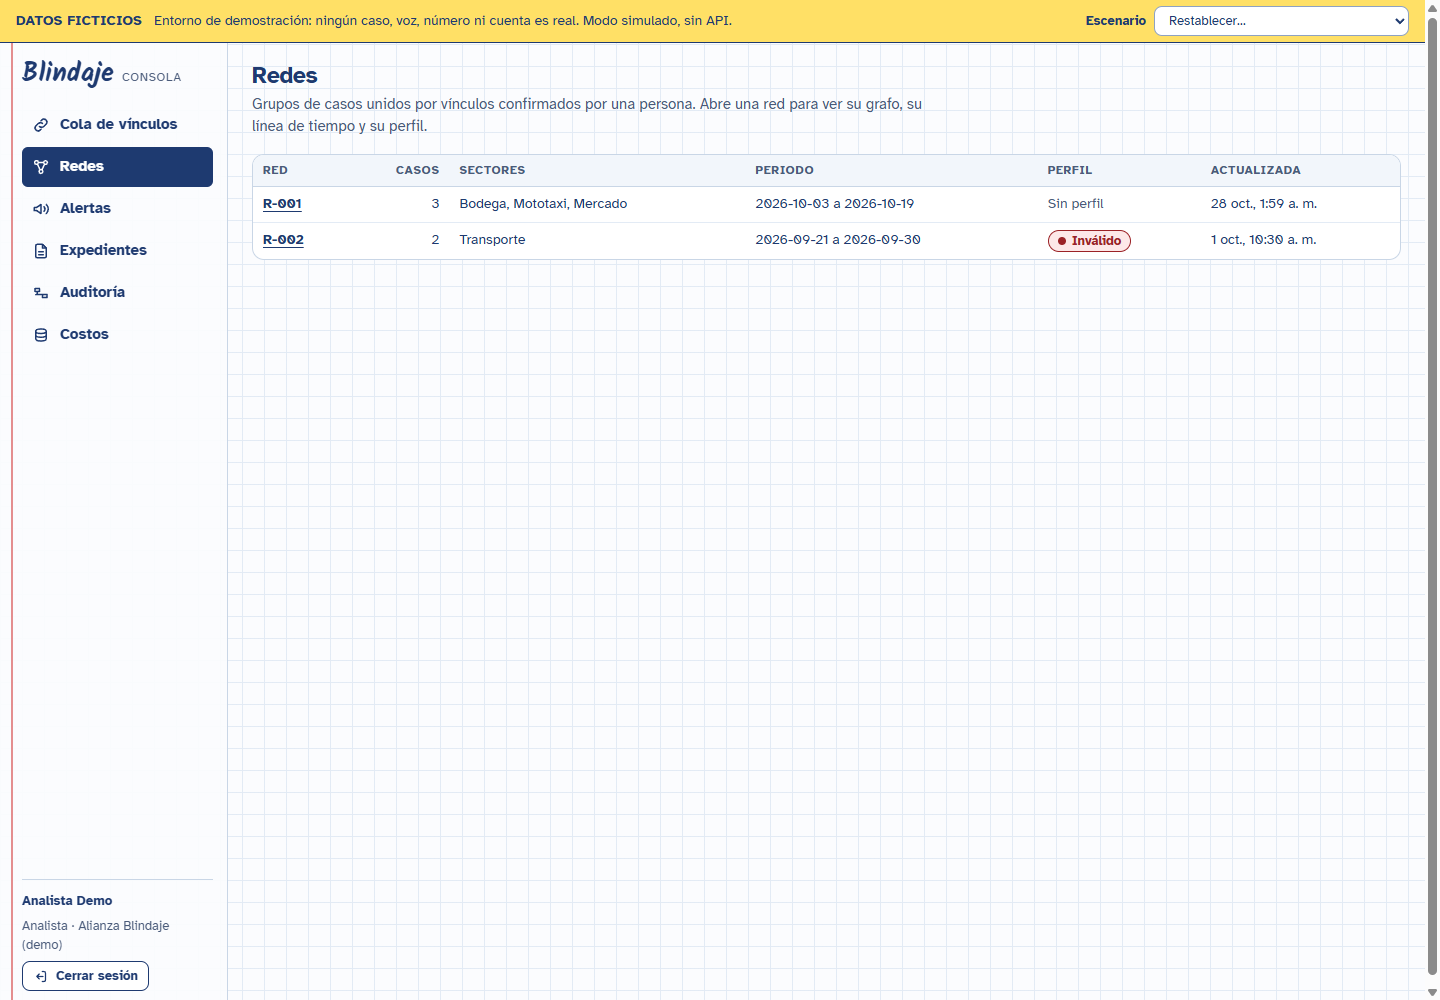
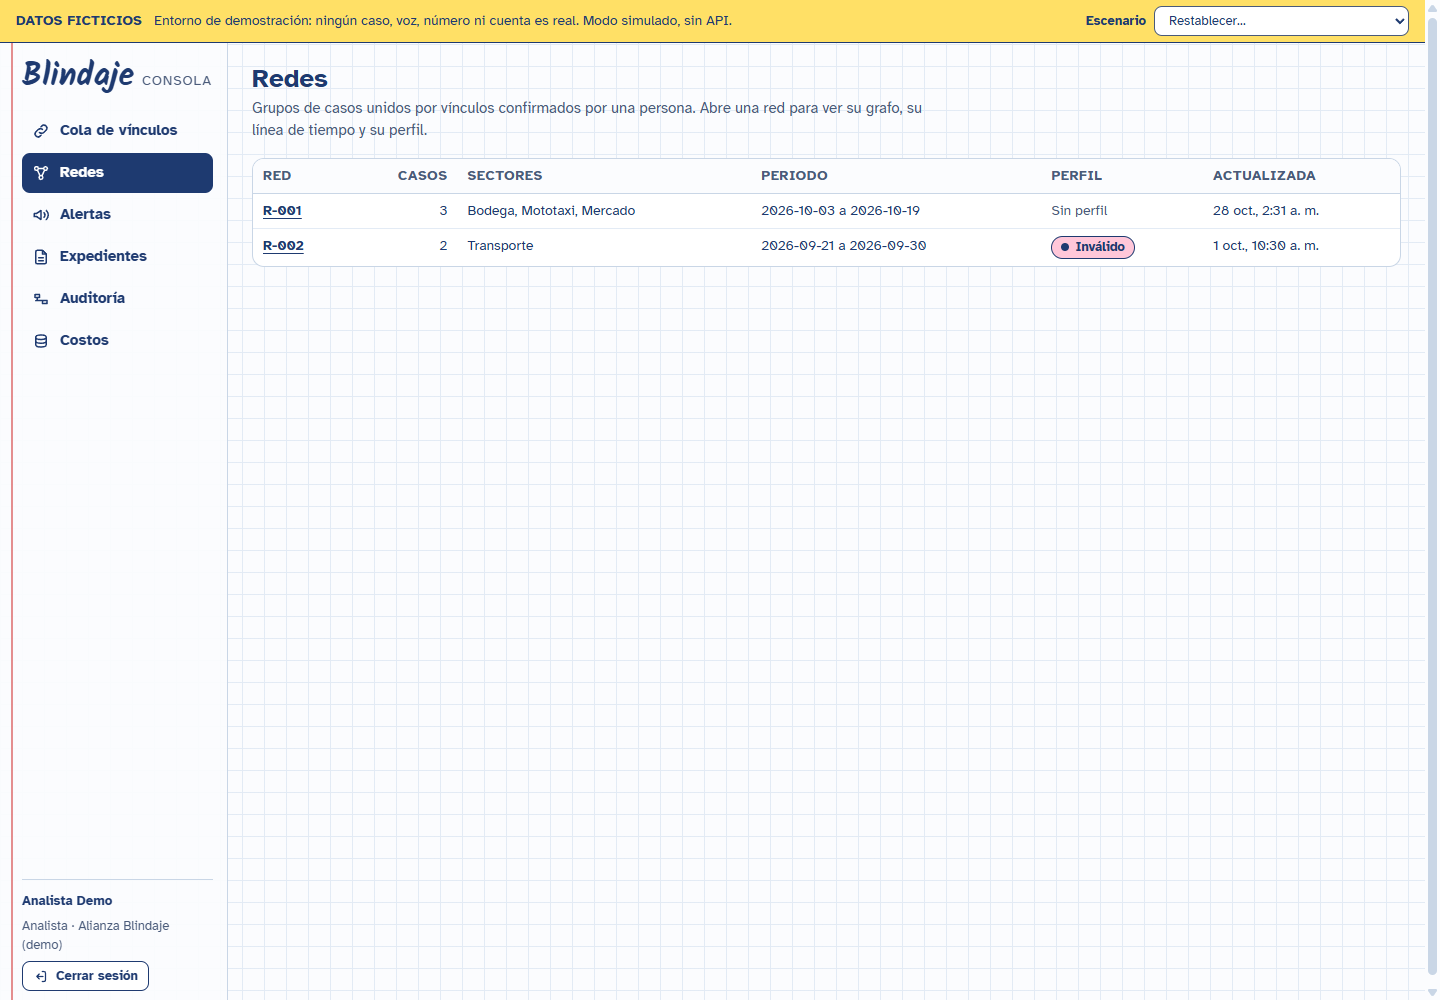
console: devlog del frente y capturas finales contra la URL desplegada

diff --git a/docs/devlog/console.md b/docs/devlog/console.md
@@ -1,0 +1,115 @@
+# Devlog: consola (`apps/console`)
+
+Horas en hora de Lima (UTC−5). Las entradas más nuevas van abajo.
+
+## 2026-10-28 01:10 · Base y decisiones
+
+- React 19 + Vite 8 + TypeScript estricto + react-router 8 (`BrowserRouter`, rutas anidadas y
+  `:tab?`). Cytoscape.js para el grafo. Atkinson Hyperlegible (400 y 700) y Kalam (700)
+  autoalojadas con `@fontsource` (OFL), solo el subconjunto latino.
+- Una interfaz `BlindajeApi` con dos implementaciones: `HttpApi` (docs/API.md) y `MockApi` (modo
+  simulado). `VITE_MOCK=1` o `--mode mock` fuerza el simulado; sin `VITE_API_URL` también arranca
+  simulado (nunca adivina una API). La marca "Datos ficticios" sale si `/v1/health` trae un `env`
+  con "demo" o si el modo es simulado.
+- Tipos: todo sale de `@blindaje/shared`. Los esquemas que no exportan su tipo (`ExpedienteView`,
+  `HypothesisView`, `AuditVerifyResponse`, `AudioFragment`, …) se infieren con
+  `ReturnType<typeof S.X["parse"]>`, sin depender de zod en la consola. `HttpApi` valida cada
+  respuesta con el esquema de shared y avisa en la consola del navegador (`[contrato]`) si no cumple,
+  sin romper la vista.
+- Cliente HTTP: access token solo en memoria; refresh token en `sessionStorage` (sobrevive a recargar
+  la pestaña, no a cerrarla). Ante un 401 renueva una sola vez (un refresh compartido entre peticiones
+  concurrentes) y reintenta; si el refresh falla limpia la sesión y vuelve al login con aviso. Renueva
+  por adelantado si el token vence en menos de 5 s o si no hay access token (recarga). Nunca manda
+  `Authorization` a un origen distinto del de `VITE_API_URL`.
+- Medios protegidos: `fetch` con `Authorization` → `Blob` → object URL (se revoca al desmontar). El
+  audio se descarga solo cuando el revisor lo pide (cada acceso queda en la auditoría). Si la API
+  devuelve el audio sin recortar, el reproductor salta al inicio del rango y se detiene al final.
+- Citas clicables: `parseCitations` reconoce el `CITATION_RE` de shared y además la forma
+  `ID-…488`. Los identificadores cifrados se muestran solo como "…488" (con el tipo: "Yape …488"),
+  también en el grafo. Cada cita abre un panel lateral (`<dialog>` modal: foco atrapado, Escape cierra
+  y devuelve el foco) con la evidencia (SHA-256, fragmentos de audio, imagen redactada), la ficha, la
+  huella, el identificador, el vínculo o la red.
+- Grafo: cada tipo de nodo tiene forma y color propios (caso: rectángulo tinta; voz: círculo
+  amarillo; identificador: rombo menta; frase: etiqueta rosada; imagen: hexágono gris azulado),
+  leyenda HTML con las mismas formas, lista de elementos navegable con teclado que selecciona en el
+  grafo, y línea de tiempo con carriles por caso. Disposición determinista: casos en fila por fecha y
+  cada tipo de señal en su carril, entre los casos que la comparten.
+- Modo simulado: casos A, B y C de la sección 3 (A–B por voz con números distintos, B–C por la misma
+  cuenta de Yape "…488"), más D–E (red previa por placa) y F (candidato débil con contradicciones).
+  Al confirmar VIN-1 y VIN-2 aparece la red R-001 de tres casos. Auditoría con cadena SHA-256 real
+  (botón "Simular una alteración" para mostrar que la verificación la detecta), PDF del expediente
+  generado en el navegador con su SHA-256 real, audios sintéticos (tonos, una frecuencia por huella)
+  e imágenes vectoriales neutras. El estado vive en `sessionStorage` y se puede restablecer a
+  "Inicio" o "Red armada" desde la bandera del demo.
+
+## 2026-10-28 01:55 · Verificación en Chrome y despliegue
+
+- Recorrido automático en Chrome headless (CDP) con 16 pasos: login, cola, audio, citas, confirmar
+  VIN-1 y VIN-2, grafo, Cartógrafo, perfil inválido, expediente con SHA-256 verificado al descargar,
+  Vigía, auditoría íntegra y rota, costos, admin y permisos de la revisora. Cero errores y cero avisos
+  en la consola del navegador, también contra la URL desplegada con su CSP real. Capturas en
+  `apps/console/screenshots/`.
+- Hallazgo corregido: tras "Cerrar sesión", la siguiente persona entraba a la página de la anterior.
+- Hallazgo del entorno: `vite preview` no ve los assets nuevos si se recompila con el servidor
+  corriendo; hay que reiniciarlo.
+- Desplegada con Workers Static Assets (`blindaje-console`, SPA fallback, `_headers` con CSP que solo
+  permite conectarse al origen de `VITE_API_URL`):
+  **https://blindaje-console.vigiaperu.workers.dev** (modo simulado).
+- Bundle: vistas con carga diferida; Cytoscape (unos 145 kB gzip) solo se descarga al abrir una red.
+
+## 2026-10-28 02:15 · Alineación con la API real
+
+Leído `services/api/src/routes/console.ts` (sin tocarlo):
+
+- `GET /links?status=` acepta un solo estado o `todos`: la pestaña "Revisados" pide `todos` y
+  filtra `confirmado` y `descartado` en la consola.
+- `POST /users` exige contraseña de 12 caracteres o más; `POST /orgs`, nombre de 2 o más.
+- `GET /orgs` trae `devices` y `users`: se muestran.
+- Nombres de acción de la auditoría (`link.decision`, `evidence.media`, `agent.cartografo.run`, …)
+  con su lectura en español.
+- Nodos de la red: `caso` trae `data.case_id` y `data.code` (sin `primer_contacto`): los casos se
+  ordenan por su primer evento de la línea de tiempo y los casos de cada señal salen de las aristas.
+- `GET /cases/:id` se audita (`case.view`): la vista de red ya no carga todos los casos de entrada;
+  pide un caso solo cuando se abre una cita de su evidencia o su ficha.
+
+## 2026-10-28 02:35 · Pasada de diseño con Impeccable y guías de interfaz
+
+`impeccable context` cargó PRODUCT.md y DESIGN.md (sistema Cuaderno, modo Operate). Cambios:
+
+- **El rojo es solo la línea de margen**: errores, citas inexistentes y estados inválidos van en
+  resaltador rosado con texto en tinta; toda acción en tinta (se quitó el verde de "Confirmar").
+- Sin sombras (drawer, login, barra de decisión) ni bordes laterales de color; señales, hechos,
+  hipótesis y fragmentos como renglones en vez de cajas dentro de cajas.
+- Kalam solo en la marca, las frases firma y el título de "Avisos del proveedor"; las
+  transcripciones pasaron a Atkinson.
+- Selección del grafo: trazo de tinta con halo de resaltador. Imagen: gris azulado de la paleta.
+- Guías de interfaz: confirmación en línea para descartar un vínculo o rechazar una alerta, filtros de
+  la cola y de alertas en la URL, login que valida al enviar y lleva el foco al campo, `spellcheck`
+  y `autocomplete` apagados donde corresponde, `scroll-padding` para que la bandera fija y la barra
+  de decisión no tapen el foco, selección, caret, scrollbar y `accent-color` con la paleta,
+  `touch-action: manipulation`, `overscroll-behavior` en el panel.
+- Accesibilidad: el borde de los campos pasó a Lápiz (antes `#8ea2c2`, menos de 3:1 contra blanco).
+  Verificado con teclado: orden de foco, foco visible, Enter abre una cita y Escape devuelve el foco.
+- `impeccable detect` sobre `apps/console/src`: 0 antipatrones; queda un aviso por el papel
+  cuadriculado, que es el mundo Cuaderno fijado por el brief.
+
+### Cómo correrla
+
+- Simulado: `pnpm --filter @blindaje/console dev` (sin variables) y entrar con las cuentas ficticias
+  de la pantalla de login (contraseña `demo-blindaje`).
+- API real: `VITE_API_URL=https://<api> pnpm --filter @blindaje/console dev`. La API debe permitir
+  el origen de la consola en CORS (`ALLOWED_ORIGINS`) con `authorization` y `content-type`.
+- Desplegar: `pnpm --filter @blindaje/console deploy:mock` o
+  `VITE_API_URL=https://<api> pnpm --filter @blindaje/console deploy`.
+
+### Pendiente y propuestas de contrato
+
+- `AlertView` sin nombre de organización: el analista ve el id (`org-…`). Propuesta: `org_name`.
+- No hay `GET` para listar expedientes: la consola recuerda en la pestaña los que generó. Propuesta:
+  `GET /v1/console/networks/:id/expedientes`.
+- `OrgView`, `UserView` y sus cuerpos de creación no están en `packages/shared`: hoy son tipos
+  locales en `apps/console/src/api/types.ts`. Propuesta: moverlos a shared.
+- Propuesta para shared: exportar los tipos de `ExpedienteView`, `HypothesisView`,
+  `AuditVerifyResponse`, `AudioFragment`, `GraphNode` y `GraphEdge`.
+- Nodos `voz` e `imagen` sin `data.evidencia`: el panel del grafo no puede citar su evidencia.
+- `CostsResponse.pct` se interpreta en porcentaje (0 a 100).
